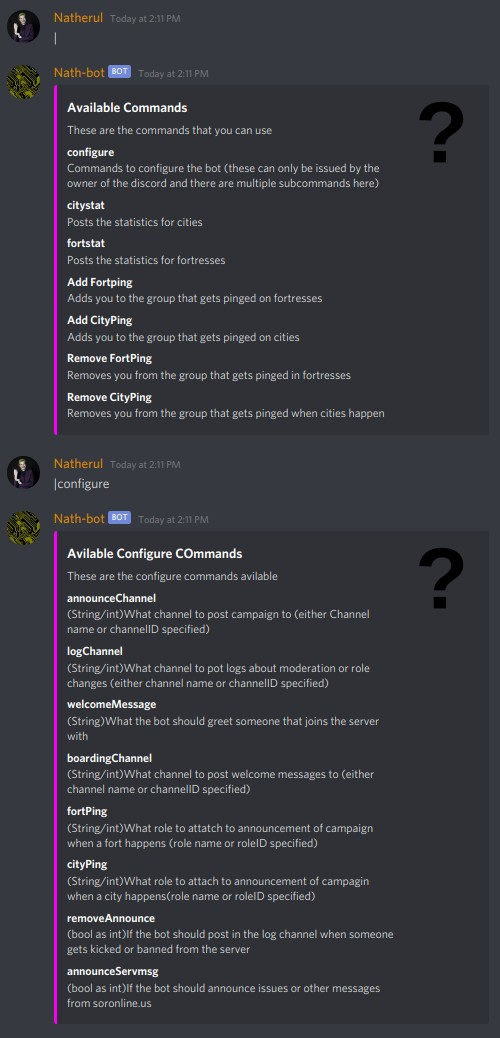
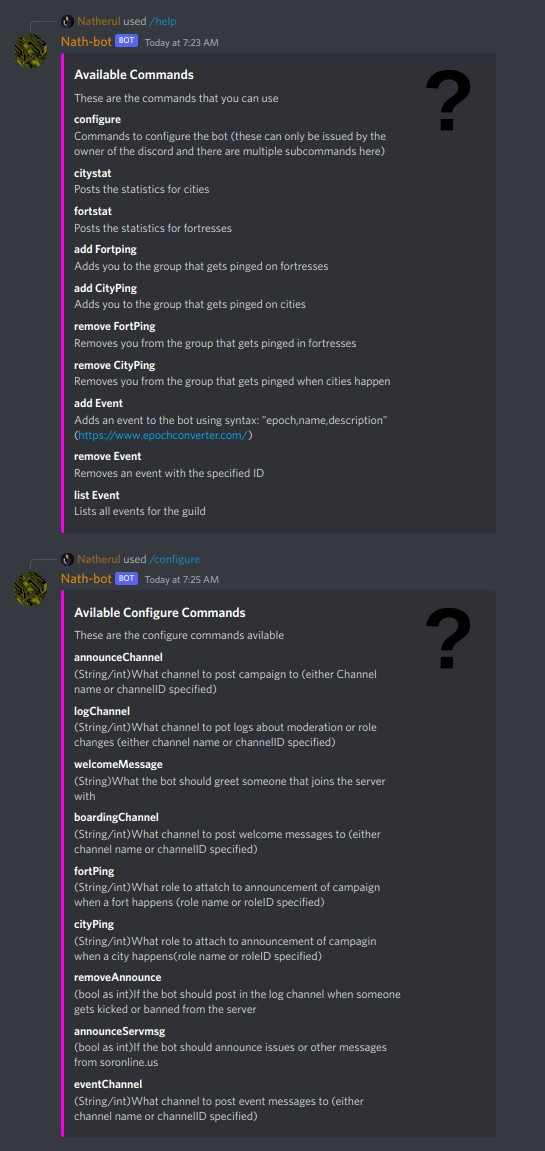
updated README and configure image

diff --git a/README.md b/README.md
@@ -7,7 +7,7 @@ The discord bot that Natherul made with the help from www.soronline.us
 If you want to just invite the bot as it is then press the following link:
 https://discord.com/oauth2/authorize?client_id=758718771275497559&scope=bot&permissions=268471296
 
-Once invited you need to configure the bot with the relevant information. Get started with issuing "|configure" in any channel the bot can see.
+Once invited you need to configure the bot with the relevant information. Get started with issuing "/configure" in any channel the bot can see.
 
 **Support**:
 
